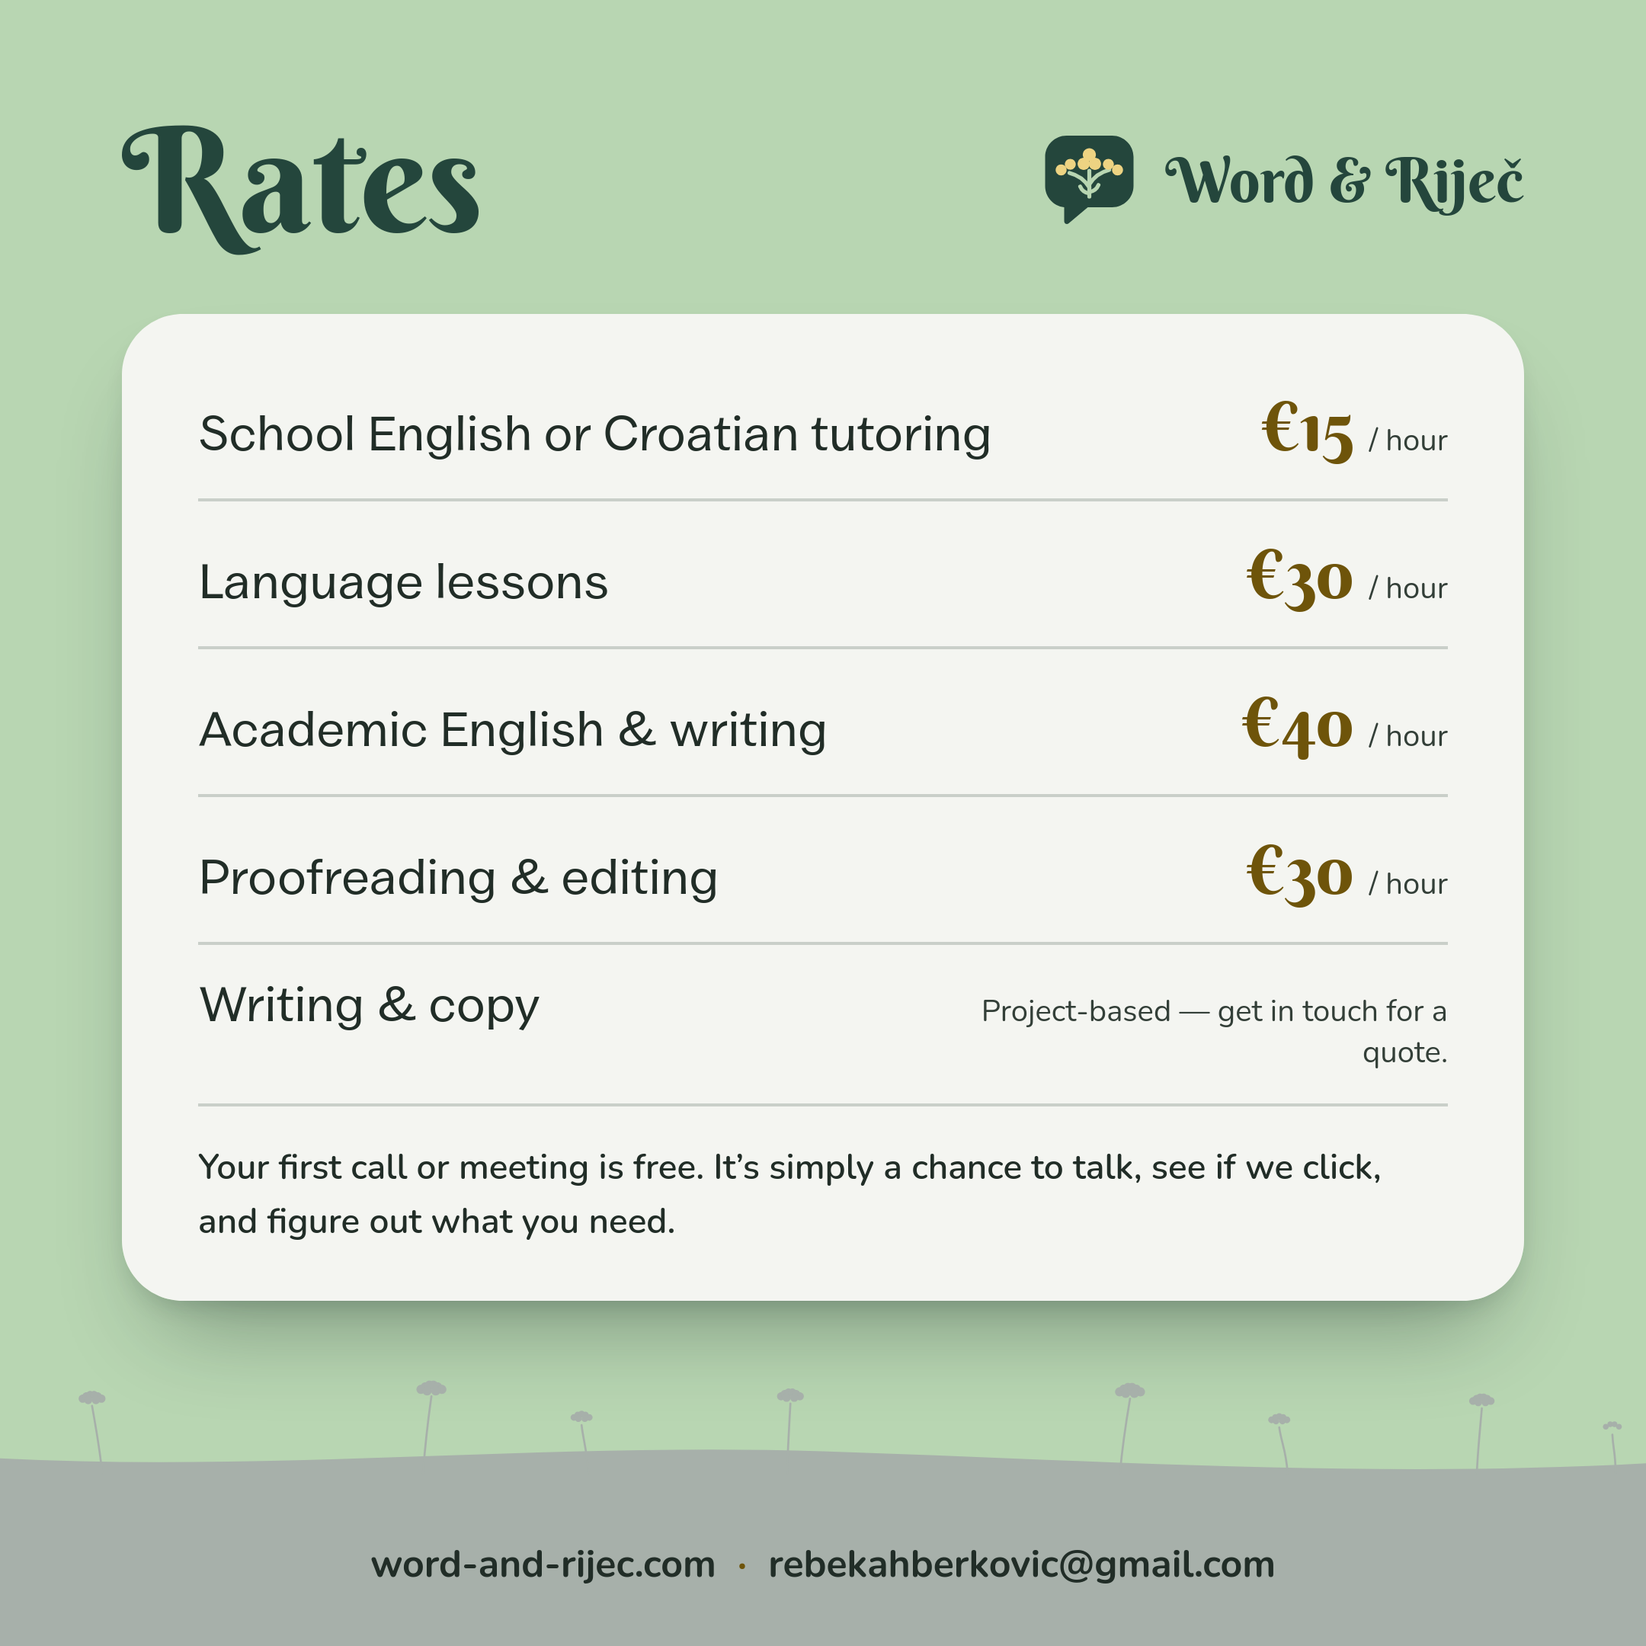
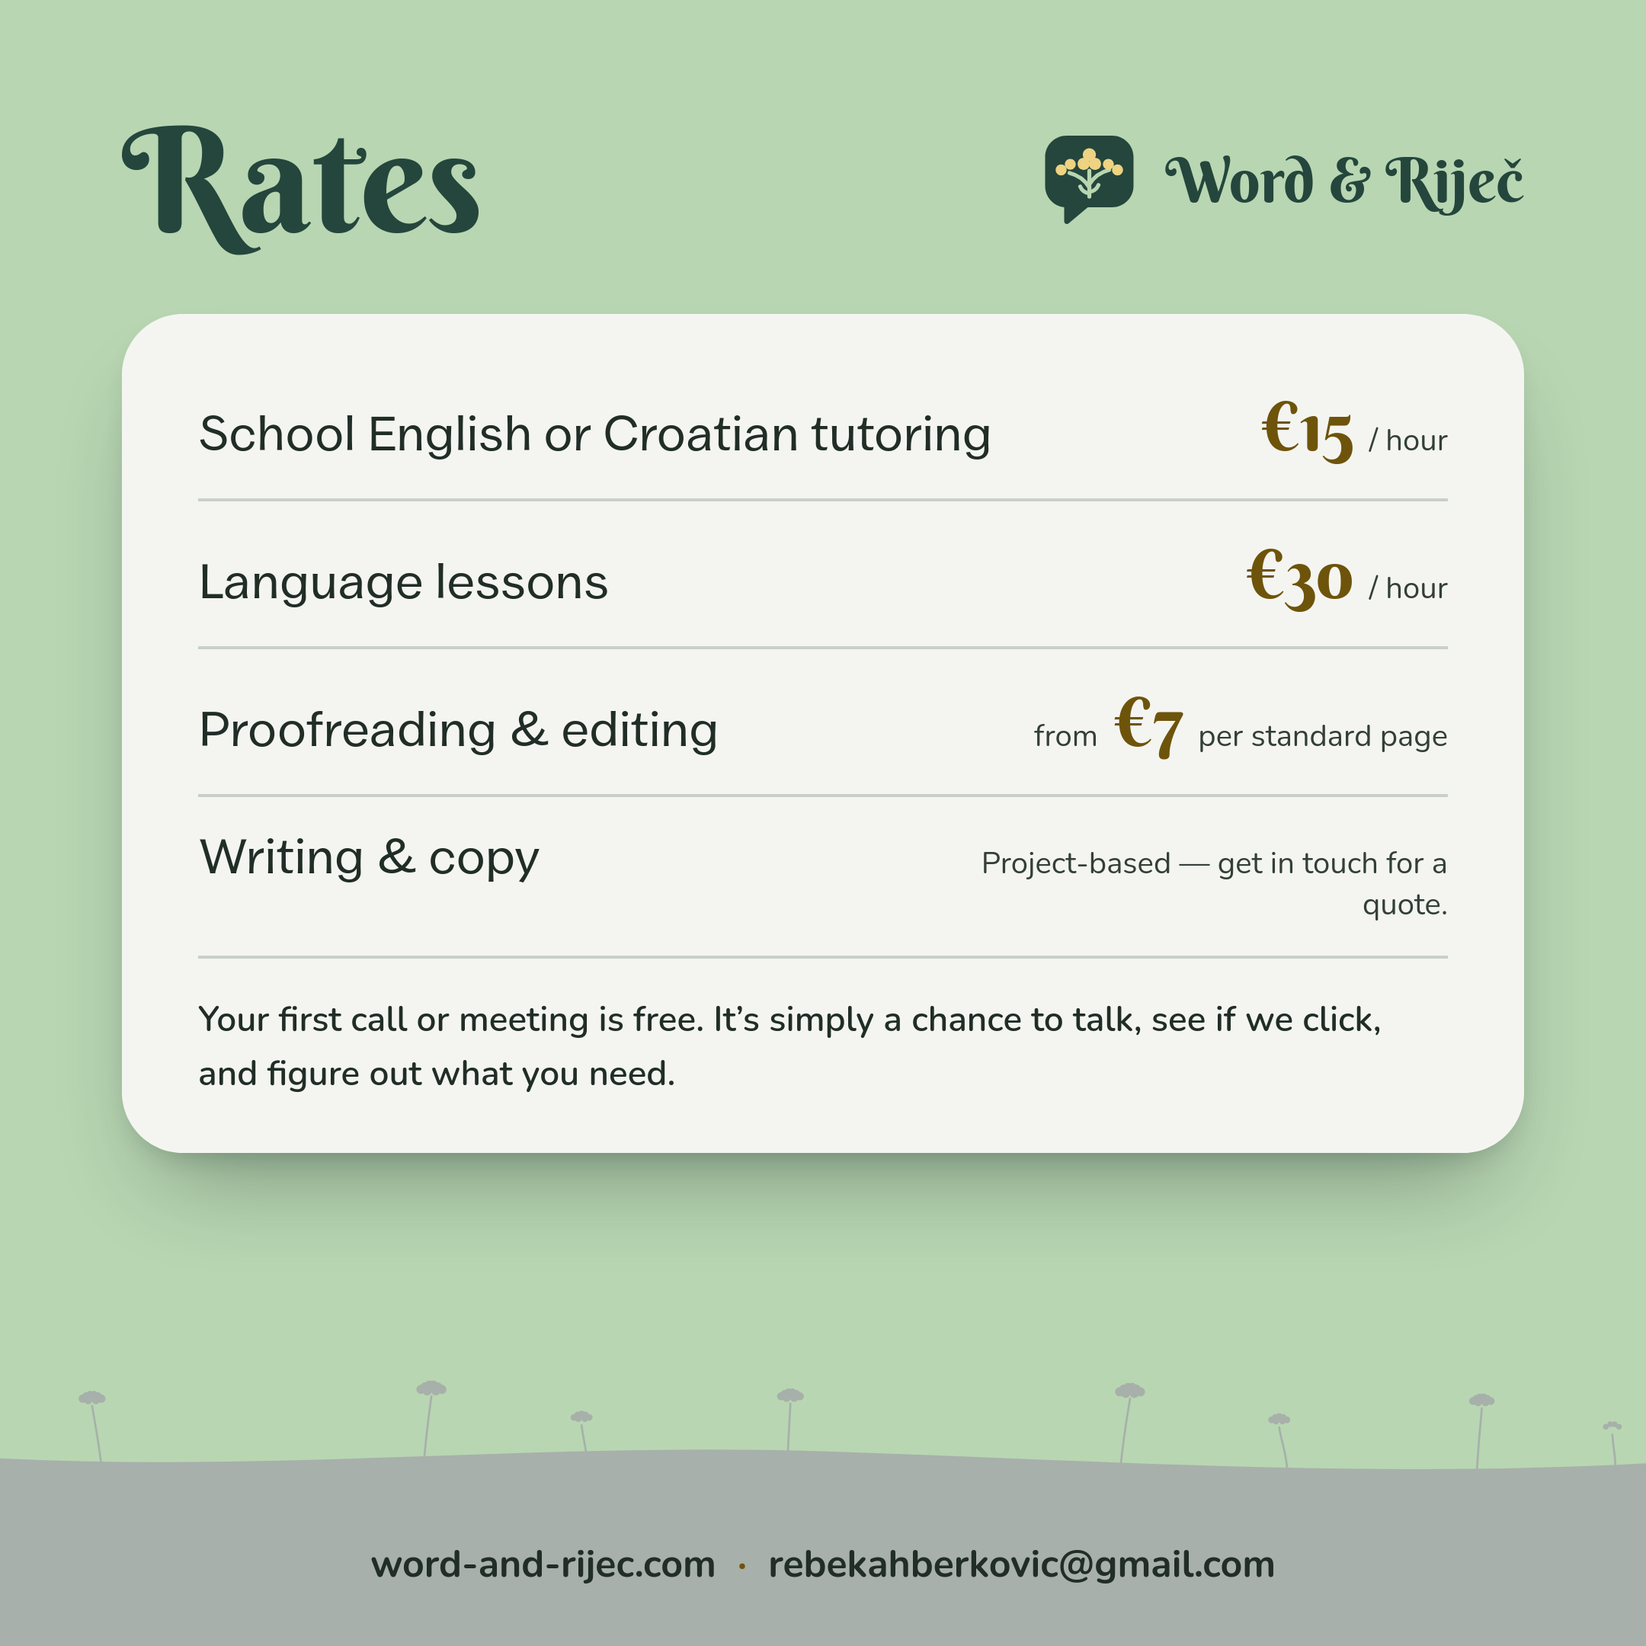
Apply the client's 2026-10-08 edits: rates, bio and location
Language lessons split into individual and group rates, Academic English
removed, proofreading priced from €7 per standard page, Brač added to
the About text and to the location line. The Croatian for the new
sentence and labels was drafted here and is recorded as awaiting her
check. Rates poster re-rendered and the sitemap lastmod bumped.

diff --git a/src/sections/Rates.jsx b/src/sections/Rates.jsx
@@ -7,8 +7,11 @@ import { useLang } from '../i18n'
 // src/i18n/, keyed by the same ids, because a price is the same number in both
 // languages and the words around it are not.
 //
-// `hourly: null` means the service is quoted per project. A package's `per`
-// and `saving` are optional — tutoring blocks carry neither.
+// `hourly: null` means the service is quoted per project. `from` is a starting
+// price per standard page (kartica) rather than an hourly one. `sections`
+// splits one service into sub-rates, each with its own `hourly` and packages.
+// A package's `per` and `saving` are optional — tutoring blocks carry neither —
+// and `hourly: true` on a package marks its price as a rate per hour.
 const prices = {
   tutoring: {
     hourly: '€15',
@@ -19,26 +22,38 @@ const prices = {
     ],
   },
   lessons: {
-    hourly: '€30',
-    packages: [
-      { id: 'single', price: '€30' },
-      { id: 'five', price: '€140', per: '€28', saving: '€10' },
-      { id: 'ten', price: '€270', per: '€27', saving: '€30' },
+    sections: [
+      {
+        id: 'individual',
+        hourly: '€30',
+        packages: [
+          { id: 'single', price: '€30' },
+          { id: 'five', price: '€140', per: '€28', saving: '€10' },
+          { id: 'ten', price: '€270', per: '€27', saving: '€30' },
+        ],
+      },
+      {
+        id: 'group',
+        packages: [
+          { id: 'two', price: '€20', hourly: true },
+          { id: 'threePlus', price: '€15', hourly: true },
+        ],
+      },
     ],
   },
-  academic: { hourly: '€40' },
-  editing: { hourly: '€30' },
+  editing: { from: '€7' },
   copywriting: { hourly: null },
 }
 
 function Packages({ packages, t }) {
   return (
     <ul className="mt-3 space-y-1.5">
-      {packages.map(({ id, price, per, saving }) => (
+      {packages.map(({ id, price, hourly, per, saving }) => (
         <li key={id} className="flex flex-wrap items-baseline justify-between gap-x-4 font-sans text-[14px] text-ink-soft">
           <span>{t.rates.packages[id]}</span>
           <span className="text-right">
             <span className="font-bold text-ink">{price}</span>
+            {hourly && <span className="text-ink-soft/80"> {t.rates.perHour}</span>}
             {per && (
               <span className="text-ink-soft/80">
                 {' '}
@@ -57,6 +72,14 @@ function Packages({ packages, t }) {
   )
 }
 
+function Hourly({ price, t }) {
+  return (
+    <p className="font-display text-2xl text-dandelion-deep whitespace-nowrap">
+      {price} <span className="font-sans text-[13px] text-ink-soft/80">{t.rates.perHour}</span>
+    </p>
+  )
+}
+
 export default function Rates() {
   const { t } = useLang()
 
@@ -72,21 +95,31 @@ export default function Rates() {
           <Reveal delay={110}>
             <div className="soft-card sm:p-10">
               <ul>
-                {Object.entries(t.rates.items).map(([id, { name }]) => {
-                  const { hourly, packages } = prices[id]
+                {Object.entries(t.rates.items).map(([id, item]) => {
+                  const { hourly, from, packages, sections } = prices[id]
                   return (
                     <li key={id} className="py-5 border-b border-line last:border-0 first:pt-0">
                       <div className="flex flex-wrap items-baseline justify-between gap-x-6 gap-y-1">
-                        <p className="font-title text-xl text-ink">{name}</p>
-                        {hourly && (
+                        <p className="font-title text-xl text-ink">{item.name}</p>
+                        {hourly && <Hourly price={hourly} t={t} />}
+                        {from && (
                           <p className="font-display text-2xl text-dandelion-deep whitespace-nowrap">
-                            {hourly}{' '}
-                            <span className="font-sans text-[13px] text-ink-soft/80">{t.rates.perHour}</span>
+                            <span className="font-sans text-[13px] text-ink-soft/80">{t.rates.from}</span> {from}{' '}
+                            <span className="font-sans text-[13px] text-ink-soft/80">{t.rates.perCard}</span>
                           </p>
                         )}
                       </div>
-                      {!hourly && <p className="font-sans text-[14px] text-ink-soft mt-1">{t.rates.quote}</p>}
+                      {hourly === null && <p className="font-sans text-[14px] text-ink-soft mt-1">{t.rates.quote}</p>}
                       {packages && <Packages packages={packages} t={t} />}
+                      {sections?.map((section) => (
+                        <div key={section.id} className="mt-4">
+                          <div className="flex flex-wrap items-baseline justify-between gap-x-6 gap-y-1">
+                            <p className="font-sans text-[15px] font-bold text-ink">{item.sections[section.id]}</p>
+                            {section.hourly && <Hourly price={section.hourly} t={t} />}
+                          </div>
+                          <Packages packages={section.packages} t={t} />
+                        </div>
+                      ))}
                     </li>
                   )
                 })}

diff --git a/src/i18n/en.js b/src/i18n/en.js
@@ -21,7 +21,7 @@ export default {
   // src/siteInfo.js.
   site: {
     what: 'English and Croatian language services',
-    location: 'Online, worldwide',
+    location: 'Brač, online, worldwide',
     tagline: 'More language. More life.',
   },
 
@@ -93,7 +93,7 @@ export default {
     body: [
       'I grew up in Croatia speaking English at home with my British mother and Croatian with my father. Being bilingual has always felt natural to me, but it also made me aware from an early age of what language can do — how it can open doors to reading, writing, creativity, connection and new experiences.',
       'For more than 15 years, I’ve taught English and Croatian to all kinds of learners, from complete beginners to advanced speakers. I’ve taught simple one-on-one conversational classes, school and university students, corporate groups and even members of parliament.',
-      'I’ve also been on the other side of the language barrier. I learnt German and Thai from scratch while living in Austria and Thailand, so I know how frustrating it can be to have so much you want to say but not have the words. I also know the wonderful feeling when something finally clicks — when you can have a conversation, understand a joke, read a sign or write something yourself, and suddenly a place feels a little more like home.',
+      'I’ve also been on the other side of the language barrier. I learnt German and Thai from scratch while living in Austria and Thailand, so I know how frustrating it can be to have so much you want to say but not have the words. I also know the wonderful feeling when something finally clicks — when you can have a conversation, understand a joke, read a sign or write something yourself, and suddenly a place feels a little more like home. I currently live and work on Brač.',
       'I believe language learning works best when you actually use the language, in a relaxed environment where you can make mistakes, ask questions and figure things out without feeling judged.',
       'And language isn’t only about speaking. I love working with words on the page, too. Whether it’s a website, essay, application, menu or something more personal, I’m here to help you make sure your words say what you want them to say — and say it well.',
     ],
@@ -148,6 +148,8 @@ export default {
     sub: 'What things cost',
     perHour: '/ hour',
     perSession: '/ session',
+    from: 'from',
+    perCard: 'per standard page',
     save: 'save',
     quote: 'Project-based — get in touch for a quote.',
     note: 'Your first call or meeting is free. It’s simply a chance to talk, see if we click, and figure out what you need.',
@@ -155,13 +157,17 @@ export default {
       single: 'Single session',
       five: '5-session block',
       ten: '10-session block',
+      two: '2 people',
+      threePlus: '3 or more',
     },
     // Rendered in this order. The figures are in src/sections/Rates.jsx,
     // keyed by the same ids.
     items: {
       tutoring: { name: 'School English or Croatian tutoring' },
-      lessons: { name: 'Language lessons' },
-      academic: { name: 'Academic English & writing' },
+      lessons: {
+        name: 'Language lessons',
+        sections: { individual: 'Individual language lessons', group: 'Group lessons' },
+      },
       editing: { name: 'Proofreading & editing' },
       copywriting: { name: 'Writing & copy' },
     },

diff --git a/src/i18n/hr.js b/src/i18n/hr.js
@@ -22,7 +22,7 @@ export default {
 
   site: {
     what: 'Jezične usluge na engleskom i hrvatskom',
-    location: 'Online, bilo gdje u svijetu',
+    location: 'Brač, online, bilo gdje u svijetu',
     tagline: 'Više jezika. Više života.',
   },
 
@@ -91,7 +91,7 @@ export default {
     photoAlt: 'Rebekah Berković, portret',
     body: [
       'Odrasla sam u Hrvatskoj, pričajući engleski kod kuće s majkom Engleskinjom, a hrvatski s ocem, prijateljima i u školi. Dvojezičnost mi je oduvijek bila potpuno prirodna, ali me istovremeno učinila vrlo svjesnom onoga što jezik može. Jezik mi je otvorio vrata čitanju, pisanju, kreativnosti i na kraju podučavanju.',
-      'Bila sam i s druge strane jezične barijere. Učila sam njemački i tajlandski od nule dok sam živjela u Austriji i Tajlandu, i znam koliko je frustrirajuće imati toliko toga za reći, a ne imati riječi kojima biste to rekli. Ali znam i onaj nevjerojatan osjećaj kada nešto napokon klikne — kada možete s nekim popričati, razumjeti šalu, pročitati znak, sami nešto napisati i odjednom se neko mjesto počne osjećati malo više kao doma.',
+      'Bila sam i s druge strane jezične barijere. Učila sam njemački i tajlandski od nule dok sam živjela u Austriji i Tajlandu, i znam koliko je frustrirajuće imati toliko toga za reći, a ne imati riječi kojima biste to rekli. Ali znam i onaj nevjerojatan osjećaj kada nešto napokon klikne — kada možete s nekim popričati, razumjeti šalu, pročitati znak, sami nešto napisati i odjednom se neko mjesto počne osjećati malo više kao doma. Trenutno živim i radim na Braču.',
       'Znam da učenje jezika može djelovati zastrašujuće. Ne mislim da mora biti. Vjerujem u učenje kroz stvarnu upotrebu jezika, u opuštenom i ugodnom okruženju u kojem možete griješiti, postavljati pitanja i učiti bez straha da ćete biti osuđivani.',
       'A jezik nije samo govor. Volim ono što se događa kada riječi stavimo na papir. Pisanje nam može pomoći da razumijemo što mislimo i osjećamo. Ali naši tekstovi žive i u stvarnom svijetu. Ljudi čitaju naše web stranice, menije, e-mailove, prijave i eseje — i dobro pisanje čini razliku. Tu sam da vam pomognem da vaše riječi kažu ono što želite reći — i da to kažu dobro.',
     ],
@@ -146,6 +146,8 @@ export default {
     sub: 'Koliko što košta',
     perHour: '/ sat',
     perSession: '/ sat',
+    from: 'od',
+    perCard: 'po kartici',
     save: 'ušteda',
     quote: 'Po dogovoru — javite se za ponudu.',
     note: 'Prvi poziv ili susret je besplatan. To je jednostavno prilika da popričamo, vidimo odgovaramo li si i zajedno ustanovimo što vam treba.',
@@ -153,11 +155,15 @@ export default {
       single: 'Pojedinačni sat',
       five: 'Paket od 5 sati',
       ten: 'Paket od 10 sati',
+      two: '2 osobe',
+      threePlus: '3 ili više osoba',
     },
     items: {
       tutoring: { name: 'Instrukcije iz engleskog ili hrvatskog' },
-      lessons: { name: 'Satovi engleskog ili hrvatskog' },
-      academic: { name: 'Akademski engleski i pisanje' },
+      lessons: {
+        name: 'Satovi engleskog ili hrvatskog',
+        sections: { individual: 'Individualni satovi', group: 'Grupni satovi' },
+      },
       editing: { name: 'Uređivanje i lektura' },
       copywriting: { name: 'Pisanje tekstova' },
     },

diff --git a/marketing/social/build.py b/marketing/social/build.py
@@ -48,8 +48,9 @@ T = {
                ('Get started', 'Everything is tailored to you — your needs, your goals and your way of working.')],
         rates='Rates',
         per_hour='/ hour',
+        from_='from', per_card='per standard page',
         rate_items=[('School English or Croatian tutoring', '€15'), ('Language lessons', '€30'),
-                    ('Academic English & writing', '€40'), ('Proofreading & editing', '€30'),
+                    ('Proofreading & editing', 'from €7'),
                     ('Writing & copy', None)],
         quote='Project-based — get in touch for a quote.',
         note='Your first call or meeting is free. It’s simply a chance to talk, see if we click, and figure out what you need.',
@@ -74,8 +75,9 @@ T = {
                ('Krenimo', 'Sve je prilagođeno vama — vašim potrebama, ciljevima i načinu rada.')],
         rates='Cjenik',
         per_hour='/ sat',
+        from_='od', per_card='po kartici',
         rate_items=[('Instrukcije iz engleskog ili hrvatskog', '€15'), ('Satovi engleskog ili hrvatskog', '€30'),
-                    ('Akademski engleski i pisanje', '€40'), ('Uređivanje i lektura', '€30'),
+                    ('Uređivanje i lektura', 'from €7'),
                     ('Pisanje tekstova', None)],
         quote='Po dogovoru — javite se za ponudu.',
         note='Prvi poziv ili susret je besplatan. To je jednostavno prilika da popričamo, vidimo odgovaramo li si i zajedno ustanovimo što vam treba.',
@@ -276,10 +278,18 @@ def d4_approach(t):
 
 
 # ── 5. Rates — 1080×1080, the rate card ─────────────────────────────────────
+def price(t, p):
+    """'€30' is an hourly figure; 'from €7' is the per-standard-page proofreading rate."""
+    small = f'font-family:Nunito;font-size:20px;color:{C["soft"]}'
+    if p.startswith('from '):
+        return f'<span style="{small}">{t["from_"]}</span> {p[5:]} <span style="{small}">{t["per_card"]}</span>'
+    return f'{p} <span style="{small}">{t["per_hour"]}</span>'
+
+
 def d5_rates(t):
     rows = ''.join(f'''<div style="display:flex;justify-content:space-between;align-items:baseline;gap:30px;padding:20px 0;border-bottom:2px solid {C['line']}55">
       <span class="title" style="font-size:31px">{name}</span>
-      {f'<span class="num" style="font-size:44px;white-space:nowrap">{p} <span style="font-family:Nunito;font-size:20px;color:{C["soft"]}">{t["per_hour"]}</span></span>' if p else f'<span style="font-size:20px;color:{C["soft"]};text-align:right;max-width:330px">{t["quote"]}</span>'}
+      {f'<span class="num" style="font-size:44px;white-space:nowrap">{price(t, p)}</span>' if p else f'<span style="font-size:20px;color:{C["soft"]};text-align:right;max-width:330px">{t["quote"]}</span>'}
     </div>''' for name, p in t['rate_items'])
     body = f'''
 <div style="padding:70px 80px 0;flex:1;display:flex;flex-direction:column">

diff --git a/CLAUDE.md b/CLAUDE.md
@@ -587,17 +587,25 @@ Assume everything is, unless it is in this list of things that are real:
   English tagline), About (Rebekah Berković's own text), How it works, the FAQ answers, the rates note and
   the contact paragraph. All supplied by the client.
 - **`site.practitioner`**: Rebekah Berković.
-- **`site.location`** ("Online, worldwide" / "Online, bilo gdje u svijetu"), confirmed 2026-09-28.
+- **`site.location`** ("Brač, online, worldwide" / "Brač, online, bilo gdje u svijetu") — "Brač" added at
+  her request on 2026-10-08. It shows in the footer and under the contact form.
 - **Testimonials** (Sarah M., Ivana K., Marko P.), in both languages — confirmed by the site owner on
   2026-09-28 as genuine quotes from real students. They were first added (commit `a819e47`) marked as
   invented layout filler; that label was superseded by this confirmation. Any new quote must likewise be
   a real one, supplied in both languages.
 - **The About portrait** of Rebekah, supplied by the client.
 - **Rates.** The figures in the `prices` map in `Rates.jsx` are hers: tutoring €15/h with 5- and 10-session
-  blocks, lessons €30/h with blocks and savings, academic English €40/h, proofreading €30/h, copy quoted
-  per project. The figures are shared by both languages; the names and package labels are translated.
+  blocks; language lessons in two subsections (`sections` in the map) — individual €30/h with blocks and
+  savings, group €20/h for 2 people and €15/h for 3 or more; proofreading from €7 per standard page
+  (`kartica`); copy quoted per project. "Academic English & writing" was removed at her request on
+  2026-10-08. She did not say whether the group prices are per person, so the page does not either. The
+  figures are shared by both languages; the names and package labels are translated.
 - The stack, the design system, the build and the deploy workflow.
 - The **bilingual machinery** — the two routes, the dictionaries, the switcher, the hreflang.
+
+**Drafted here on 2026-10-08 and awaiting her check** — Croatian she asked for in English only: the About
+sentence "Trenutno živim i radim na Braču." and the rate labels `Individualni satovi`, `Grupni satovi`,
+`2 osobe`, `3 ili više osoba`, `od … po kartici`. Replace them with her wording when she sends it.
 
 Still missing or provisional:
 
